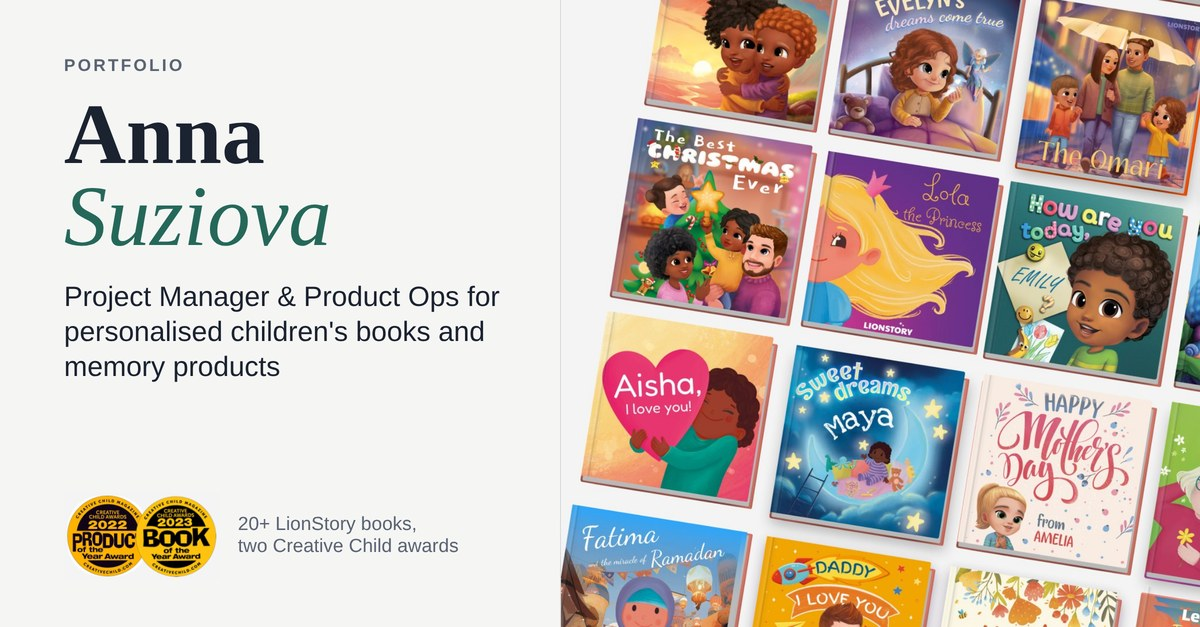
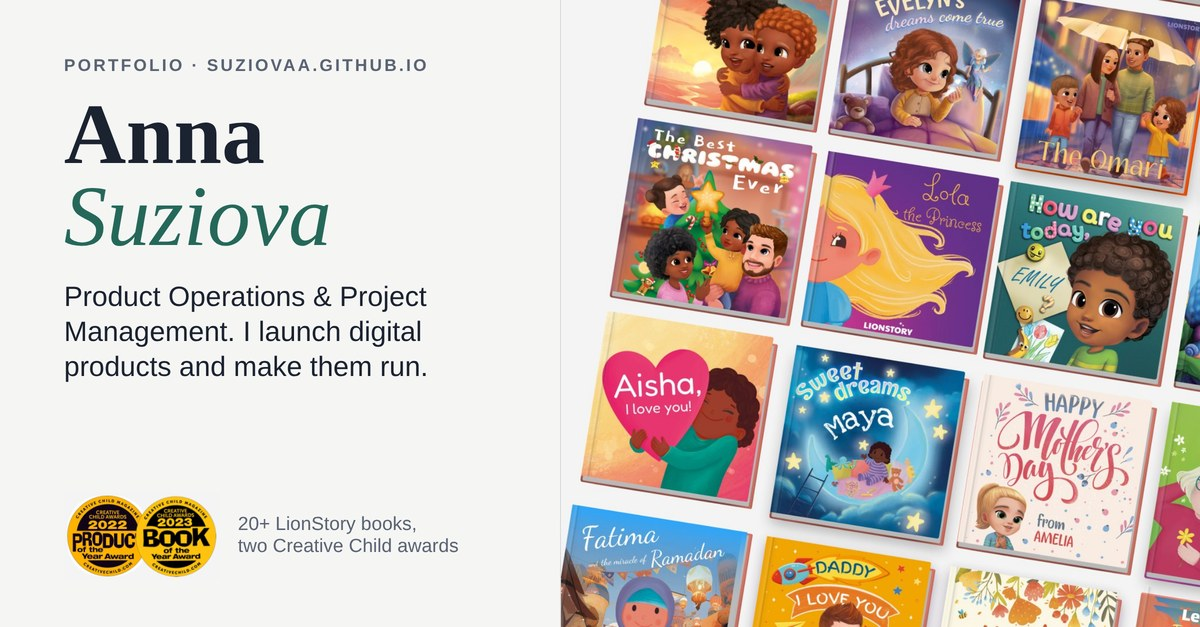
Broader link preview
Claude-Session: https://claude.ai/code/session_017gdiaXkiCvxMMziFQJf4Lc

Changed region(s): [[0.0308, 0.4545, 0.4317, 0.5455], [0.0617, 0.5758, 0.37, 0.6061], [0.1542, 0.0909, 0.37, 0.1212]]

diff --git a/index.html b/index.html
@@ -5,7 +5,7 @@
 <meta name="viewport" content="width=device-width,initial-scale=1,viewport-fit=cover">
 <meta name="description" content="Anna Suziova: project manager and product ops for personalised children's books and memory products.">
 <meta property="og:title" content="Anna Suziova">
-<meta property="og:description" content="Project Manager and Product Ops for personalised children's books and memory products.">
+<meta property="og:description" content="Product Operations and Project Management. I launch digital products and make them run.">
 <meta property="og:image" content="https://suziovaa.github.io/og.jpg">
 <meta property="og:url" content="https://suziovaa.github.io/">
 <meta property="og:type" content="website">
